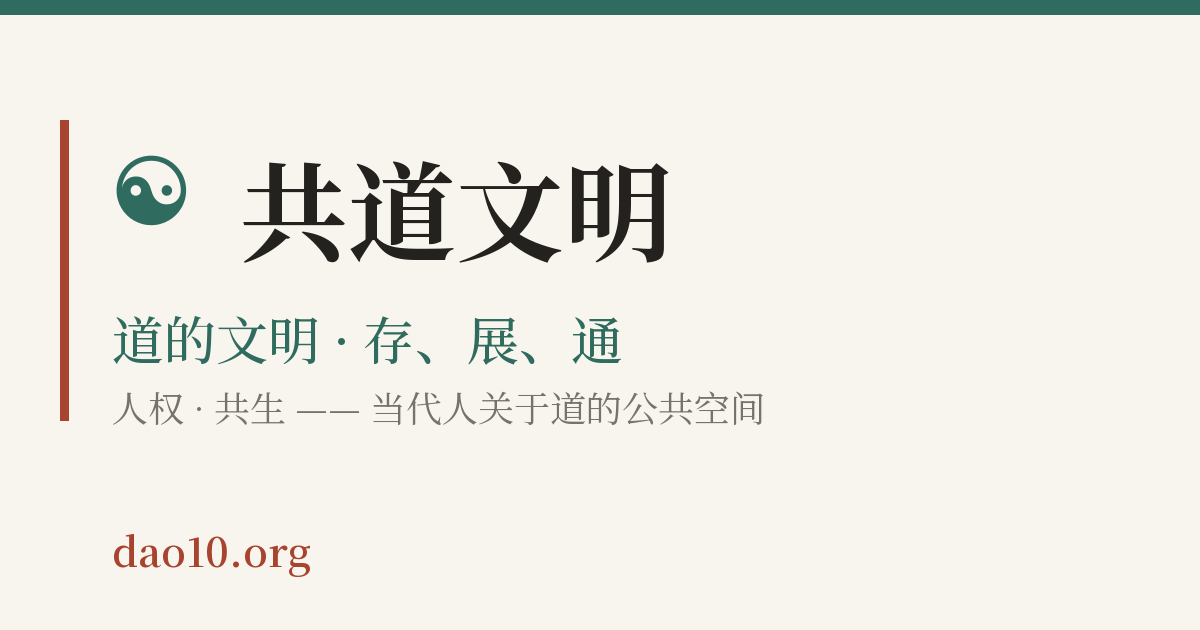
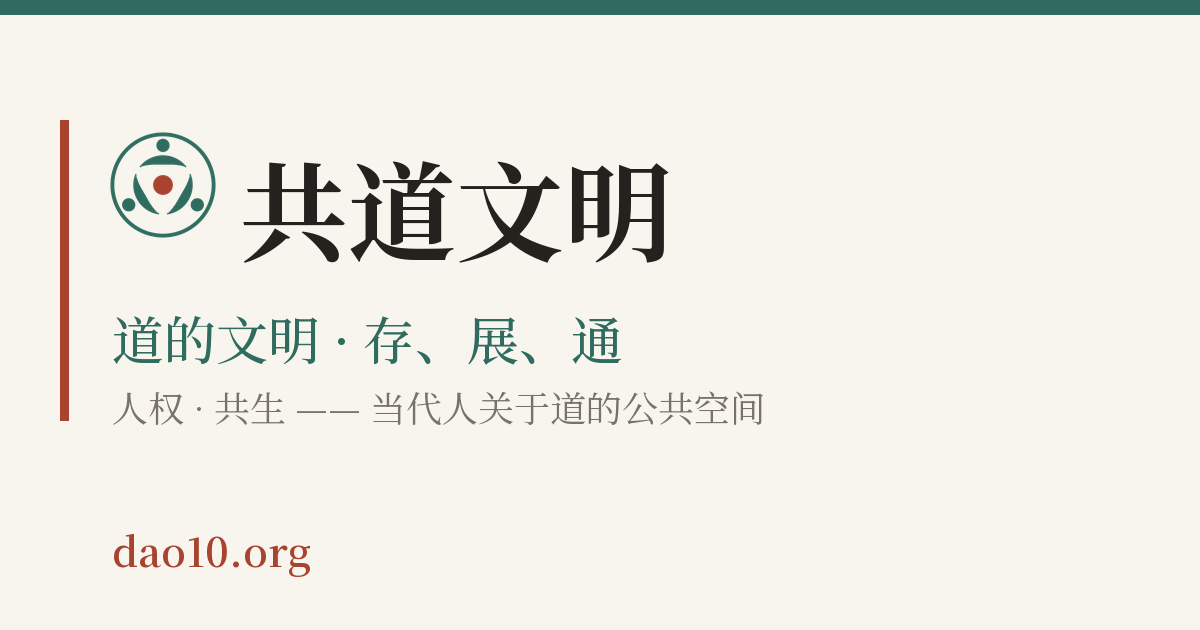
新标识：外圆（自然）+ 三人平等环抱（人与人；圆点为灵、弧为身）+ 中心朱红圆点（人权）；只用青、朱两色。替换页头、回主站按钮、浏览器图标、分享图、邀请卡；生成社交平台头像；关于页加标识含义

Changed region(s): [[0.0925, 0.2111, 0.185, 0.3921]]

diff --git a/src/assets/css/style.css b/src/assets/css/style.css
@@ -24,7 +24,7 @@ a:hover { text-decoration: underline; }
 .header-inner { display: flex; align-items: center; justify-content: space-between; padding-top: 14px; padding-bottom: 6px; gap: 16px; }
 .brand { display: flex; align-items: center; gap: 12px; color: var(--ink); }
 .brand:hover { text-decoration: none; }
-.brand-mark { font-size: 34px; line-height: 1; color: var(--accent); }
+.brand-mark { width: 44px; height: 44px; flex: none; }
 .brand strong { display: block; font: 600 22px/1.2 var(--serif); letter-spacing: .08em; }
 .brand small { display: block; color: var(--muted); font-size: 13px; }
 .tools { display: flex; gap: 8px; }
@@ -248,7 +248,8 @@ button.btn:disabled { opacity: .5; cursor: not-allowed; }
 .brand-logo { width: 44px; height: 44px; border-radius: 50%; object-fit: cover; }
 .brand-initial { width: 44px; height: 44px; border-radius: 50%; background: var(--accent); color: #fff; display: inline-flex; align-items: center; justify-content: center; font: 600 22px/1 var(--serif); flex: none; }
 .home-btn { white-space: nowrap; }
-.home-btn span { color: var(--accent); }
+.home-btn { display: inline-flex; align-items: center; gap: 5px; }
+.home-logo { width: 18px; height: 18px; }
 .dojo-menu { align-items: center; }
 .dojo-menu .nav-gap { flex: 1 1 auto; }
 .nav-drop { position: relative; }

diff --git a/scripts/make-logo.py b/scripts/make-logo.py
@@ -1,0 +1,93 @@
+# 共道文明标识：生成 SVG（网页用）和 PNG（头像、分享图用），在本机运行：python scripts/make-logo.py
+# 同一份几何数据同时画 SVG 和 PNG，保证各处标识完全一致。
+#
+# 寓意
+#   外圆        自然与道：每个人都在自然和规律之中（人与自然）
+#   三个人      平等地、等距地围成一圈，没有谁在上、谁在下（人与人）
+#   头与身      每个人的圆点（灵）与弧形的身体（肉身）分开却同向，合成一个完整的人（灵魂与肉体）
+#   三段弧之间的空隙  彼此独立；三段弧合起来又近似一个环：共生
+#   中心圆点（朱红）  大家共同守护的底线：人权
+#
+# 颜色只用两种：青 #2f6b5e、朱 #a8432f（与网站相同）；另有单色版。
+import math
+from PIL import Image, ImageDraw
+
+GREEN, RED, PAPER = "#2f6b5e", "#a8432f", "#f8f5ee"
+C = 100.0                       # 画布 200×200，圆心 (100,100)
+RING_R, RING_W = 92.0, 7.0      # 外圆
+CORE_R = 18.0                   # 中心圆点
+ARM_RO, ARM_W, ARM_SPAN = 54.0, 17.0, 52.0   # 身体弧：外半径、最厚处、半张角（度）
+HEAD_D, HEAD_R = 72.0, 12.0     # 头：离圆心距离、半径
+ANGLES = [-90.0, 30.0, 150.0]   # 三个人的方向（上、右下、左下）
+
+
+def arm_points(theta_deg, n=48):
+    """一段两头尖、中间厚的弧形（像张开环抱的双臂），朝向圆心"""
+    t = math.radians(theta_deg)
+    A = math.radians(ARM_SPAN)
+    outer, inner = [], []
+    for i in range(n + 1):
+        f = -1 + 2 * i / n                      # -1 … 1
+        phi = t + f * A
+        w = ARM_W * math.cos(f * math.pi / 2) ** 0.8
+        w = max(w, 2.4)                          # 两端留一点圆头，缩小后不至于消失
+        outer.append((C + ARM_RO * math.cos(phi), C + ARM_RO * math.sin(phi)))
+        inner.append((C + (ARM_RO - w) * math.cos(phi), C + (ARM_RO - w) * math.sin(phi)))
+    return outer + inner[::-1]
+
+
+def head(theta_deg):
+    t = math.radians(theta_deg)
+    return (C + HEAD_D * math.cos(t), C + HEAD_D * math.sin(t))
+
+
+def svg(people=GREEN, core=RED, ring=GREEN, bg=None):
+    parts = ['<svg xmlns="http://www.w3.org/2000/svg" viewBox="0 0 200 200" role="img" aria-label="共道文明">']
+    if bg:
+        parts.append(f'<rect width="200" height="200" fill="{bg}"/>')
+    parts.append(f'<circle cx="100" cy="100" r="{RING_R}" fill="none" stroke="{ring}" stroke-width="{RING_W}"/>')
+    for a in ANGLES:
+        pts = arm_points(a)
+        d = "M" + " L".join(f"{x:.2f},{y:.2f}" for x, y in pts) + "Z"
+        hx, hy = head(a)
+        parts.append(f'<path d="{d}" fill="{people}"/>')
+        parts.append(f'<circle cx="{hx:.2f}" cy="{hy:.2f}" r="{HEAD_R}" fill="{people}"/>')
+    parts.append(f'<circle cx="100" cy="100" r="{CORE_R}" fill="{core}"/>')
+    parts.append("</svg>")
+    return "".join(parts)
+
+
+def png(size, people=GREEN, core=RED, ring=GREEN, bg=None, pad=0.0):
+    """画到 size×size。pad = 四周留白占比（头像用）"""
+    S = 8                                       # 超采样，边缘平滑
+    W = size * S
+    img = Image.new("RGBA", (W, W), bg or (0, 0, 0, 0))
+    d = ImageDraw.Draw(img)
+    k = W * (1 - 2 * pad) / 200.0
+    o = W * pad
+    P = lambda x, y: (o + x * k, o + y * k)
+    def circle(cx, cy, r, fill):
+        (x0, y0), (x1, y1) = P(cx - r, cy - r), P(cx + r, cy + r)
+        d.ellipse([x0, y0, x1, y1], fill=fill)
+    circle(C, C, RING_R + RING_W / 2, ring)
+    circle(C, C, RING_R - RING_W / 2, bg or (0, 0, 0, 0))
+    for a in ANGLES:
+        d.polygon([P(x, y) for x, y in arm_points(a)], fill=people)
+        circle(*head(a), HEAD_R, people)
+    circle(C, C, CORE_R, core)
+    return img.resize((size, size), Image.LANCZOS)
+
+
+if __name__ == "__main__":
+    out = "src/assets/img/"
+    open(out + "logo.svg", "w", encoding="utf-8").write(svg())                         # 标准版：青 + 朱
+    open(out + "logo-mono.svg", "w", encoding="utf-8").write(                           # 单色版：跟随文字颜色
+        svg(people="currentColor", core="currentColor", ring="currentColor"))
+    open(out + "favicon.svg", "w", encoding="utf-8").write(svg())                         # 浏览器标签图标
+    png(32).save(out + "favicon.png")
+    png(180, bg=PAPER, pad=0.06).convert("RGB").save(out + "apple-touch-icon.png")      # 手机桌面图标
+    # 社交平台头像（YouTube、X 等，会被裁成圆形，所以四周多留白）
+    png(800, bg=PAPER, pad=0.12).convert("RGB").save(out + "avatar-light.png")
+    png(800, people=PAPER, core=RED, ring=PAPER, bg=GREEN, pad=0.12).convert("RGB").save(out + "avatar-green.png")
+    png(512).save(out + "logo-512.png")
+    print("ok")

diff --git a/scripts/make-share-image.py b/scripts/make-share-image.py
@@ -13,7 +13,8 @@ def font(size, weight=400):
     return f
 d.rectangle([0, 0, W, 14], fill=green)
 d.rectangle([60, 120, 68, 420], fill=red)
-d.text((110, 120), "☯", font=ImageFont.truetype("C:/Windows/Fonts/seguisym.ttf", 96), fill=green)
+logo = Image.open("src/assets/img/logo-512.png").resize((110, 110), Image.LANCZOS)
+img.paste(logo, (108, 130), logo)
 d.text((240, 128), "共道文明", font=font(108, 700), fill=ink)
 d.text((112, 300), "道的文明 · 存、展、通", font=font(52, 500), fill=green)
 d.text((112, 380), "人权 · 共生 —— 当代人关于道的公共空间", font=font(36), fill=muted)

diff --git a/scripts/make-invite-card.py b/scripts/make-invite-card.py
@@ -23,7 +23,8 @@ sym = ImageFont.truetype("C:/Windows/Fonts/seguisym.ttf", 92)
 t = "共道文明"; ft = font(104, 700)
 tw = d.textlength(t, font=ft); total = 110 + tw
 x0 = (W - total) / 2
-d.text((x0, 172), "☯", font=sym, fill=green)
+logo = Image.open("src/assets/img/logo-512.png").resize((96, 96), Image.LANCZOS)
+img.paste(logo, (int(x0), 180), logo)
 d.text((x0 + 110, 165), t, font=ft, fill=ink)
 center(310, "保存、交流当代人关于“道”的思想", font(40, 500), green)
 

diff --git a/src/zh/about.md b/src/zh/about.md
@@ -38,3 +38,15 @@ permalink: /zh/about/
 ## 发起团队的位置
 
 发起团队有自己的思想，它在平台上以一个普通道场的身份出现，与所有道场适用同样的规则。发起团队的职责只有两件：引导大家共同商定《共道宪章》，以及维护这个技术通道。
+
+## 标识的含义
+
+<p><img src="/assets/img/logo.svg" alt="共道文明标识" width="120" height="120"></p>
+
+- **外圆**：自然与道。每个人都生活在自然之中，顺着规律而行——**人与自然**。
+- **三个人**：平等、等距地围成一圈，没有谁在上、谁在下——**人与人**。
+- **每个人的圆点与弧形**：圆点是灵，弧形是身，分开却同向，合成一个完整的人——**灵魂与肉体**。
+- **三段弧之间的空隙**：彼此独立；三段弧合起来又近似一个环——**共生**。
+- **中心的朱红圆点**：大家共同守护的底线——**人权**。
+
+标识只用两种颜色：青（自然、生命）与朱（底线）。单色场合可以全部用一种颜色。标识可以自由使用，用于介绍或链接共道文明。
